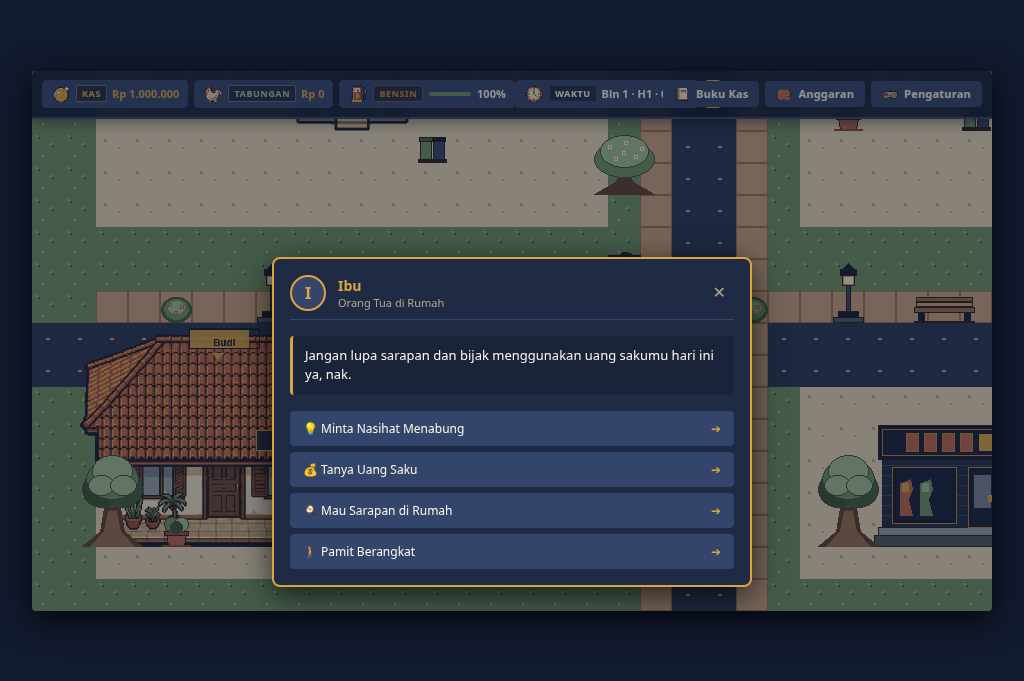
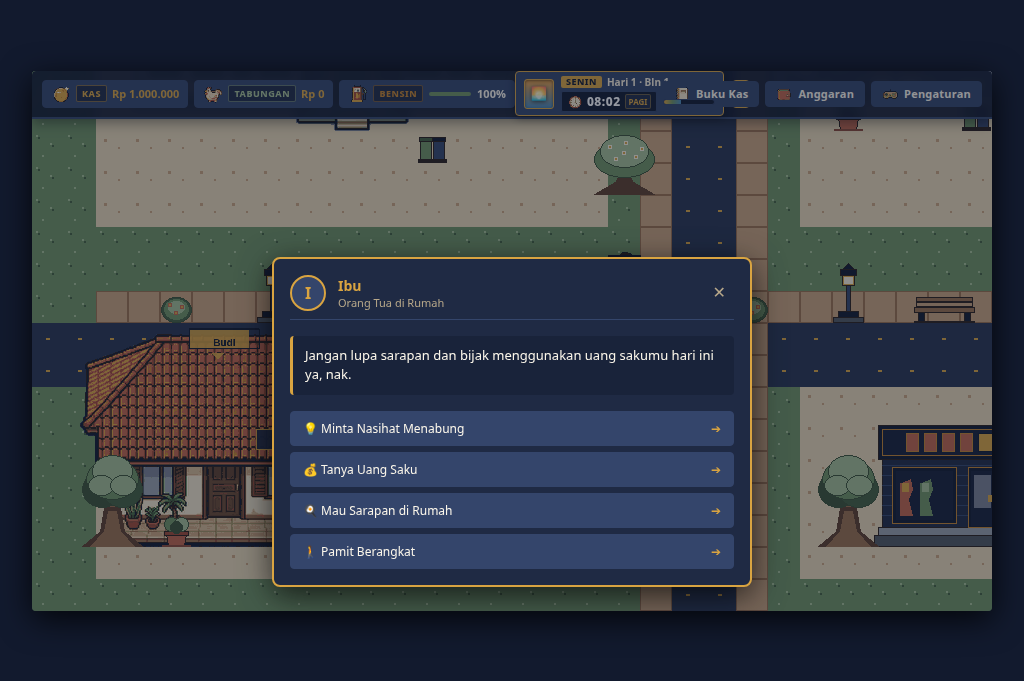
feat(hud): implement Harvest Moon-style time widget with dynamic sky gauge, day pill, animated time bar, and ambient day-night lighting

Changed region(s): [[0.5, 0.0925, 0.7188, 0.185]]

diff --git a/src/ui/hud.js b/src/ui/hud.js
@@ -92,18 +92,70 @@ export function createHUD(container, store, onOpenCashbook, onOpenBudget, onOpen
   const centerGroup = document.createElement('div');
   centerGroup.className = 'hud-group hud-center';
 
-  // Clock (Icon Jam Pixel Art)
-  const clockBadge = document.createElement('div');
-  clockBadge.className = 'hud-badge clock-badge';
-  const clockTag = document.createElement('span');
-  clockTag.className = 'hud-tag tag-clock';
-  clockTag.textContent = 'WAKTU';
-  const clockText = document.createElement('span');
-  clockText.className = 'hud-val hud-val-clock';
-  clockText.textContent = 'Bulan 1 · Hari 1';
-  clockBadge.appendChild(makeIcon('assets/icons/icon_jam.png', 'Waktu'));
-  clockBadge.appendChild(clockTag);
-  clockBadge.appendChild(clockText);
+  // --- HARVEST MOON-INSPIRED TIME WIDGET & BAR WAKTU ---
+  const timeWidget = document.createElement('div');
+  timeWidget.className = 'hud-time-widget';
+  timeWidget.setAttribute('role', 'status');
+  timeWidget.setAttribute('aria-label', 'Status Waktu & Siklus Hari');
+
+  // 1. Sky Dial Box (Kiri: Langit dinamis + Marker Matahari/Bulan yang bergerak)
+  const skyBox = document.createElement('div');
+  skyBox.className = 'time-sky-box sky-pagi';
+  const skyMarker = document.createElement('span');
+  skyMarker.className = 'time-sky-marker';
+  skyMarker.textContent = '☀';
+  skyBox.appendChild(skyMarker);
+
+  // 2. Info Stack (Kanan: Hari, Tanggal, Jam Digital, dan Bar Waktu)
+  const infoStack = document.createElement('div');
+  infoStack.className = 'time-info-stack';
+
+  // Row Atas: Tab Hari (e.g. RABU) + Tanggal
+  const rowTop = document.createElement('div');
+  rowTop.className = 'time-row-top';
+  const dayPill = document.createElement('span');
+  dayPill.className = 'time-day-pill';
+  dayPill.textContent = 'SENIN';
+  const dateText = document.createElement('span');
+  dateText.className = 'time-date-text';
+  dateText.textContent = 'Hari 1 · Bln 1';
+  rowTop.appendChild(dayPill);
+  rowTop.appendChild(dateText);
+
+  // Row Bawah: Jam Digital + Bar Waktu Visual + Tag Periode
+  const rowBottom = document.createElement('div');
+  rowBottom.className = 'time-row-bottom';
+
+  const digitalBox = document.createElement('div');
+  digitalBox.className = 'time-digital-box';
+  const clockIcon = makeBtnIcon('assets/icons/icon_jam.png');
+  const digitalVal = document.createElement('span');
+  digitalVal.className = 'time-digital-val hud-val-clock'; // preserves class for automated tests
+  digitalVal.textContent = '08:00';
+  const periodTag = document.createElement('span');
+  periodTag.className = 'time-period-tag';
+  periodTag.textContent = 'PAGI';
+  digitalBox.appendChild(clockIcon);
+  digitalBox.appendChild(digitalVal);
+  digitalBox.appendChild(periodTag);
+
+  // Bar Waktu Visual (Track & Fill yang bergerak seiring waktu berjalan)
+  const timeBarTrack = document.createElement('div');
+  timeBarTrack.className = 'time-bar-track';
+  timeBarTrack.title = 'Siklus Perjalanan Waktu Hari Ini (24 Jam)';
+  const timeBarFill = document.createElement('div');
+  timeBarFill.className = 'time-bar-fill';
+  timeBarFill.style.width = '33%';
+  timeBarTrack.appendChild(timeBarFill);
+
+  rowBottom.appendChild(digitalBox);
+  rowBottom.appendChild(timeBarTrack);
+
+  infoStack.appendChild(rowTop);
+  infoStack.appendChild(rowBottom);
+
+  timeWidget.appendChild(skyBox);
+  timeWidget.appendChild(infoStack);
 
   // Misi (Icon Bendera Misi Pixel Art)
   const missionBadge = document.createElement('div');
@@ -118,7 +170,7 @@ export function createHUD(container, store, onOpenCashbook, onOpenBudget, onOpen
   missionBadge.appendChild(missionTag);
   missionBadge.appendChild(missionTitle);
 
-  centerGroup.appendChild(clockBadge);
+  centerGroup.appendChild(timeWidget);
   centerGroup.appendChild(missionBadge);
 
   // ================= KANAN: TOMBOL NAVIGASI & MENU (DENGAN IKON PIXEL ART, TANPA EMOTE) =================
@@ -186,12 +238,54 @@ export function createHUD(container, store, onOpenCashbook, onOpenBudget, onOpen
       gasFill.classList.add('warning');
     }
 
-    const totalMin = state.clock?.timeOfDay ?? (8 * 60);
+    // --- UPDATE STATUS WAKTU & BAR WAKTU HARVEST MOON STYLE ---
+    const clock = state.clock || {};
+    const day = clock.day || 1;
+    const month = clock.month || 1;
+    const totalMin = clock.timeOfDay ?? (8 * 60);
+
     const hours = Math.floor(totalMin / 60) % 24;
     const mins = Math.floor(totalMin % 60);
     const hh = String(hours).padStart(2, '0');
     const mm = String(mins).padStart(2, '0');
-    clockText.textContent = `Bln ${state.clock?.month || 1} · H${state.clock?.day || 1} · ${hh}:${mm}`;
+
+    const DAY_NAMES = ['Senin', 'Selasa', 'Rabu', 'Kamis', 'Jumat', 'Sabtu', 'Minggu'];
+    const dayName = DAY_NAMES[(day - 1) % 7] || 'Senin';
+
+    dayPill.textContent = dayName.toUpperCase();
+    dateText.textContent = `Hari ${day} · Bln ${month}`;
+    digitalVal.textContent = `${hh}:${mm}`;
+
+    // Period & Sky themes
+    let period = 'PAGI';
+    let skyClass = 'sky-pagi';
+    let markerEmoji = '☀';
+
+    if (hours >= 6 && hours < 11) {
+      period = 'PAGI';
+      skyClass = 'sky-pagi';
+      markerEmoji = '🌅';
+    } else if (hours >= 11 && hours < 15) {
+      period = 'SIANG';
+      skyClass = 'sky-siang';
+      markerEmoji = '☀';
+    } else if (hours >= 15 && hours < 18) {
+      period = 'SORE';
+      skyClass = 'sky-sore';
+      markerEmoji = '🌇';
+    } else {
+      period = 'MALAM';
+      skyClass = 'sky-malam';
+      markerEmoji = '🌙';
+    }
+
+    periodTag.textContent = period;
+    skyBox.className = `time-sky-box ${skyClass}`;
+    skyMarker.textContent = markerEmoji;
+
+    // Persentase Bar Waktu (00:00 - 24:00 = 0% - 100%)
+    const dayPercent = Math.max(0, Math.min(100, (totalMin / 1440) * 100));
+    timeBarFill.style.width = `${dayPercent.toFixed(1)}%`;
 
     const activeM = state.missions?.find(m => !m.completed);
     missionTitle.textContent = activeM ? activeM.title : 'Semua Selesai';

diff --git a/src/ui/tokens.css b/src/ui/tokens.css
@@ -259,9 +259,154 @@ body {
 
 /* Center group: Clock & Mission */
 .hud-center {
-  gap: 6px;
+  gap: 8px;
   flex-shrink: 1;
   min-width: 0;
+}
+
+/* ========================================================
+   HARVEST MOON-INSPIRED TIME WIDGET & BAR WAKTU
+   ======================================================== */
+.hud-time-widget {
+  display: inline-flex;
+  align-items: center;
+  background: var(--color-bg-card);
+  border: 1.5px solid var(--color-gold);
+  border-radius: var(--radius-sm);
+  padding: 3px 8px;
+  gap: 7px;
+  box-shadow: 0 2px 8px rgba(0, 0, 0, 0.4);
+}
+
+/* Sky Dial Box (Left side, inspired by Harvest Moon sky gauge) */
+.time-sky-box {
+  width: 30px;
+  height: 30px;
+  border-radius: 3px;
+  border: 1px solid var(--color-border-bright);
+  position: relative;
+  overflow: hidden;
+  background: linear-gradient(180deg, #3A7BD5 0%, #00D2FF 100%);
+  display: flex;
+  align-items: center;
+  justify-content: center;
+  flex-shrink: 0;
+  box-shadow: inset 0 1px 3px rgba(0,0,0,0.5);
+}
+
+.time-sky-marker {
+  font-size: 13px;
+  line-height: 1;
+  transition: transform 0.3s ease;
+  filter: drop-shadow(0 1px 2px rgba(0,0,0,0.6));
+}
+
+/* Sky gradient variations */
+.time-sky-box.sky-pagi {
+  background: linear-gradient(180deg, #E89E44 0%, #4A88B8 100%);
+}
+.time-sky-box.sky-siang {
+  background: linear-gradient(180deg, #2A72BA 0%, #68BFF5 100%);
+}
+.time-sky-box.sky-sore {
+  background: linear-gradient(180deg, #BA4A20 0%, #E8902A 70%, #203048 100%);
+}
+.time-sky-box.sky-malam {
+  background: linear-gradient(180deg, #0A1024 0%, #162444 100%);
+}
+
+/* Info stack */
+.time-info-stack {
+  display: flex;
+  flex-direction: column;
+  gap: 2px;
+}
+
+.time-row-top {
+  display: flex;
+  align-items: center;
+  gap: 5px;
+}
+
+.time-day-pill {
+  font-size: 9px;
+  font-weight: 800;
+  text-transform: uppercase;
+  padding: 1px 5px;
+  border-radius: 2px;
+  background: var(--color-gold);
+  color: var(--color-navy-deepest);
+  letter-spacing: 0.5px;
+  line-height: 1.2;
+}
+
+.time-date-text {
+  font-size: 10px;
+  font-weight: 700;
+  color: var(--color-cream-light);
+  white-space: nowrap;
+}
+
+.time-row-bottom {
+  display: flex;
+  align-items: center;
+  gap: 6px;
+}
+
+/* Digital clock box with clean inset */
+.time-digital-box {
+  display: flex;
+  align-items: center;
+  gap: 4px;
+  background: var(--color-navy-deepest);
+  border: 1px solid var(--color-border);
+  border-radius: 2px;
+  padding: 1px 5px;
+}
+
+.time-digital-val {
+  font-size: 12px;
+  font-weight: 800;
+  font-variant-numeric: tabular-nums;
+  color: #FFFFFF;
+  letter-spacing: 0.5px;
+}
+
+.time-colon-pulse {
+  animation: colonBlink 1s infinite steps(1);
+}
+
+@keyframes colonBlink {
+  0%, 100% { opacity: 1; }
+  50% { opacity: 0.25; }
+}
+
+.time-period-tag {
+  font-size: 8px;
+  font-weight: 700;
+  padding: 1px 3px;
+  border-radius: 2px;
+  background: var(--color-navy-dark);
+  color: var(--color-gold);
+  border: 1px solid rgba(217, 164, 65, 0.4);
+  text-transform: uppercase;
+}
+
+/* Visual 24h Time Bar (Bar Waktu yang berjalan) */
+.time-bar-track {
+  width: 52px;
+  height: 6px;
+  background: var(--color-navy-deepest);
+  border-radius: 3px;
+  overflow: hidden;
+  border: 1px solid var(--color-border);
+  position: relative;
+}
+
+.time-bar-fill {
+  height: 100%;
+  background: linear-gradient(to right, #D9A441, #6F9262, #4A88B8);
+  transition: width 0.3s ease;
 }
 
 .clock-badge {
@@ -1014,4 +1159,28 @@ body.lj-light .lj-table td {
 
 body.lj-light .lj-table tr:hover td {
   background: #F0E8D8;
+}
+
+body.lj-light .hud-time-widget {
+  background: #FFFFFF;
+  border-color: #C4832E;
+  box-shadow: 0 2px 8px rgba(0,0,0,0.1);
+}
+
+body.lj-light .time-digital-box {
+  background: #EAE6DE;
+  border-color: #C4BAA4;
+}
+
+body.lj-light .time-digital-val {
+  color: #1A2033;
+}
+
+body.lj-light .time-date-text {
+  color: #2C3A54;
+}
+
+body.lj-light .time-bar-track {
+  background: #EAE6DE;
+  border-color: #C4BAA4;
 }

diff --git a/src/game/scenes/World.js b/src/game/scenes/World.js
@@ -85,6 +85,15 @@ export class World extends Phaser.Scene {
     this.keyE = this.input.keyboard.addKey(Phaser.Input.Keyboard.KeyCodes.E);
     this.keySpace = this.input.keyboard.addKey(Phaser.Input.Keyboard.KeyCodes.SPACE);
 
+    // 6b. Ambient Day-Night Lighting Overlay (layar penuh, mengikuti kamera)
+    const viewW = this.cameras.main.width || 960;
+    const viewH = this.cameras.main.height || 540;
+    this._ambientLight = this.add.rectangle(0, 0, viewW, viewH, 0x000000, 0);
+    this._ambientLight.setOrigin(0, 0).setScrollFactor(0).setDepth(4500);
+
+    const initialTime = store?.getState()?.clock?.timeOfDay ?? (8 * 60);
+    this._updateAmbientLight(initialTime);
+
     // 7. Mount DOM HUD
     const uiContainer = document.getElementById('ui-container') || document.body;
     if (store) {
@@ -166,6 +175,34 @@ export class World extends Phaser.Scene {
         },
         ledger
       });
+
+      this._updateAmbientLight(timeOfDay);
+    }
+  }
+
+  _updateAmbientLight(timeOfDay) {
+    if (!this._ambientLight) return;
+    const hours = (timeOfDay / 60) % 24;
+
+    // Transisi pencahayaan dunia game sesuai waktu:
+    // Pagi (07:00 - 15:30): Cahaya siang bersih (alpha 0)
+    // Sore (15:30 - 18:00): Senja jingga/keemasan hangat
+    // Malam (18:00 - 21:00): Biru malam temaram
+    // Dini Hari (21:00 - 05:00): Biru gelap malam pekat
+    // Fajar (05:00 - 07:00): Semburat keemasan fajar
+    if (hours >= 7 && hours < 15.5) {
+      this._ambientLight.setFillStyle(0x000000, 0);
+    } else if (hours >= 15.5 && hours < 18) {
+      const t = (hours - 15.5) / 2.5;
+      this._ambientLight.setFillStyle(0xD86A28, 0.04 + t * 0.16);
+    } else if (hours >= 18 && hours < 21) {
+      const t = (hours - 18) / 3;
+      this._ambientLight.setFillStyle(0x0E1832, 0.18 + t * 0.22);
+    } else if (hours >= 21 || hours < 5) {
+      this._ambientLight.setFillStyle(0x081024, 0.40);
+    } else {
+      const t = (hours - 5) / 2;
+      this._ambientLight.setFillStyle(0xC88040, 0.22 * (1 - t));
     }
   }
 

diff --git a/tools/test_new_features.py b/tools/test_new_features.py
@@ -331,3 +331,4 @@ async def run_suite():
 
 if __name__ == "__main__":
     asyncio.run(run_suite())
+
